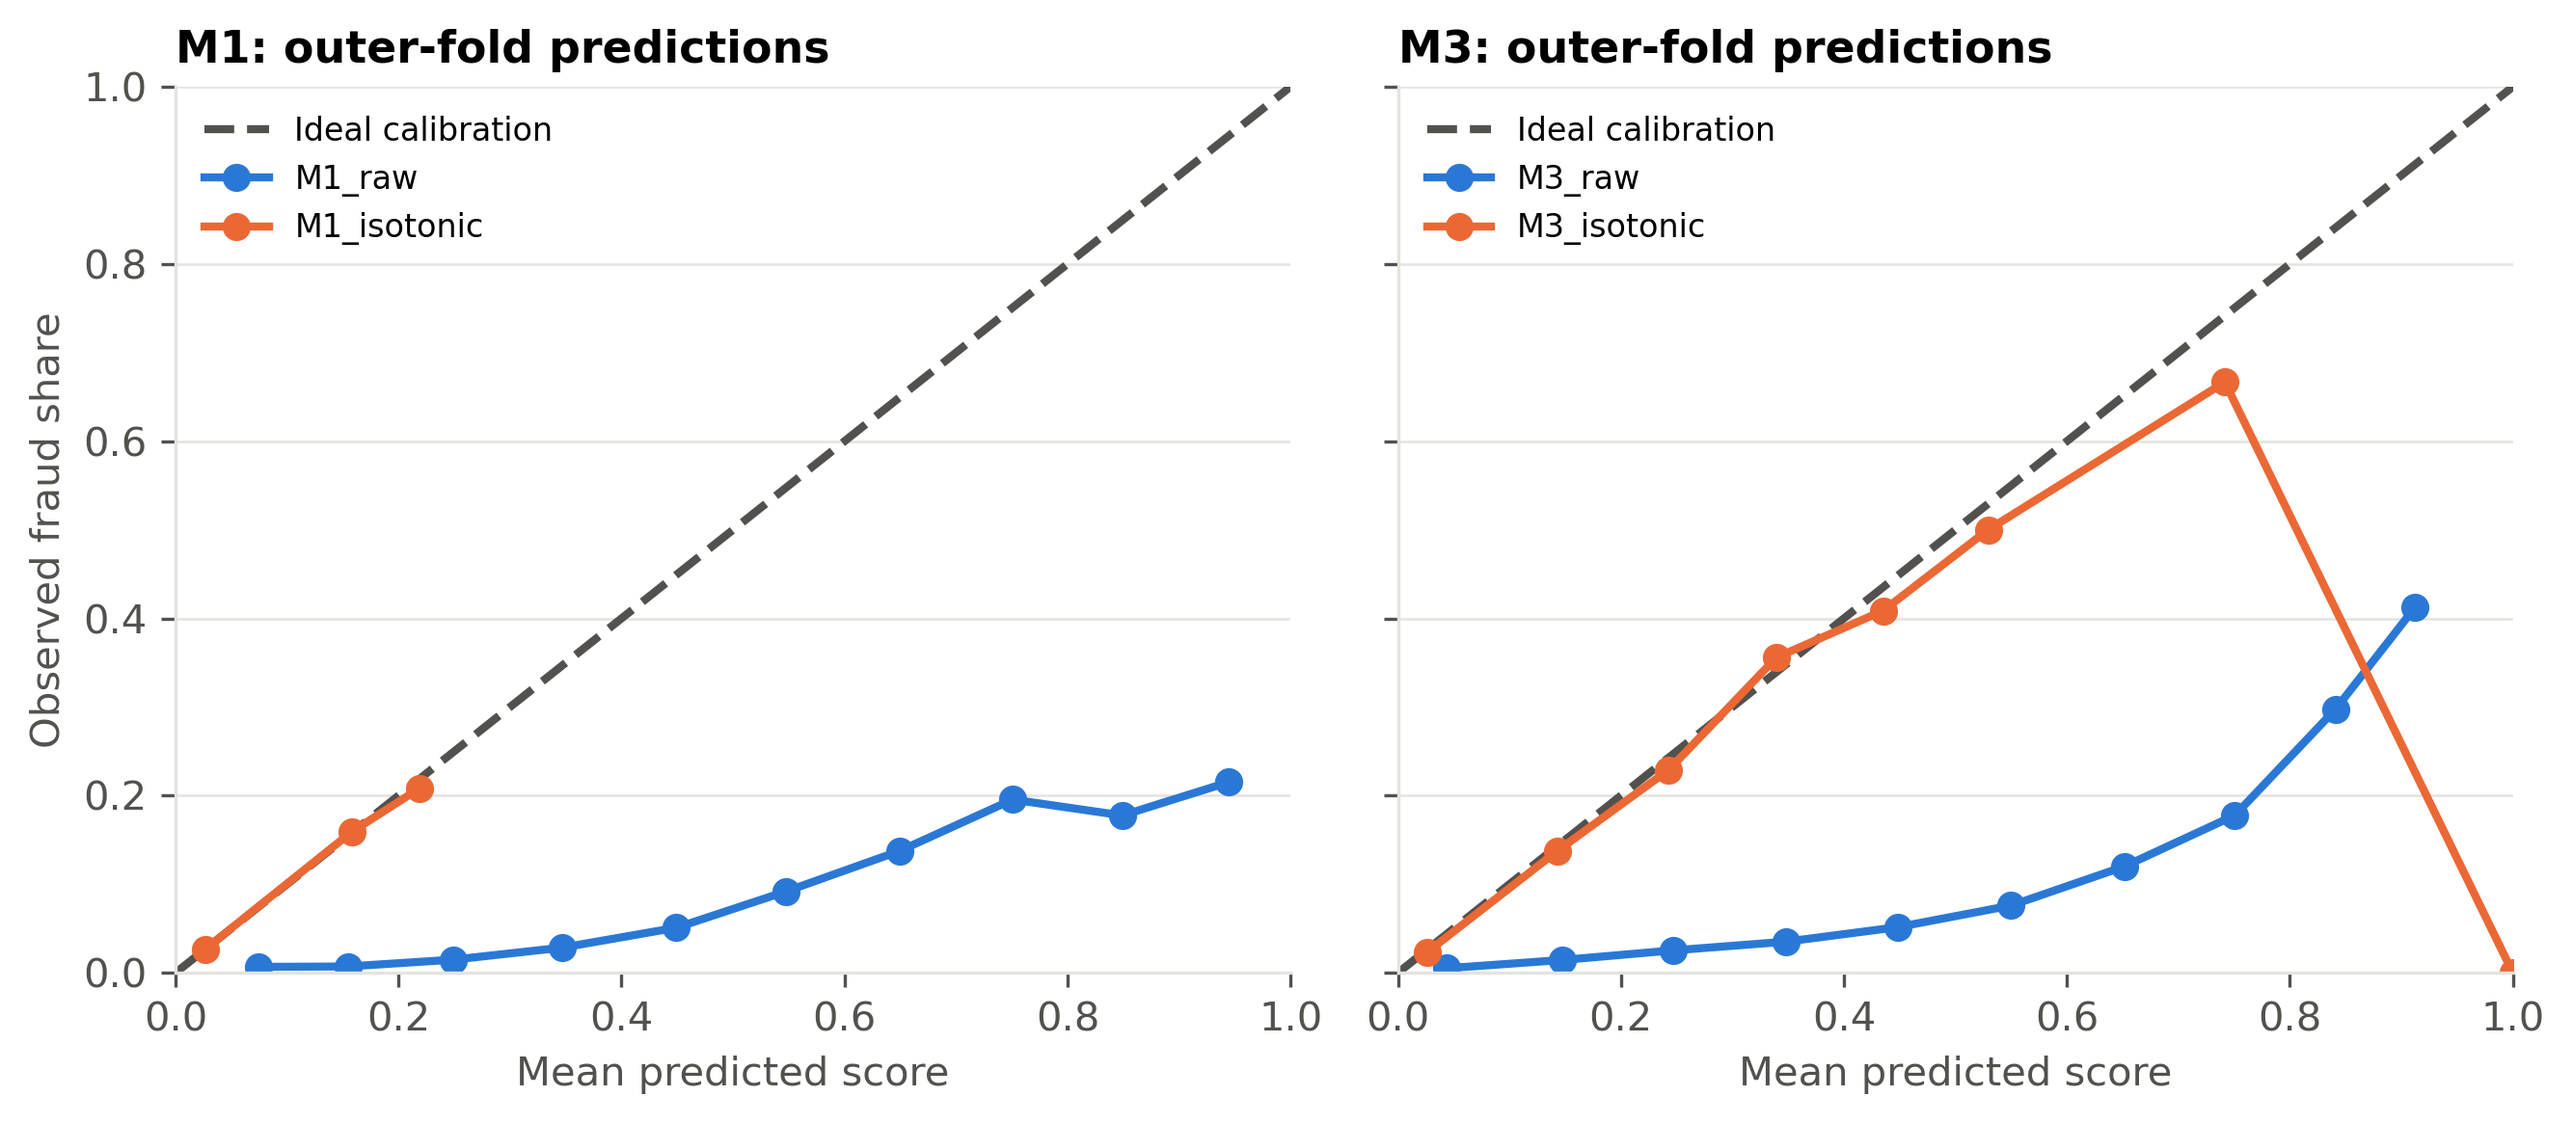
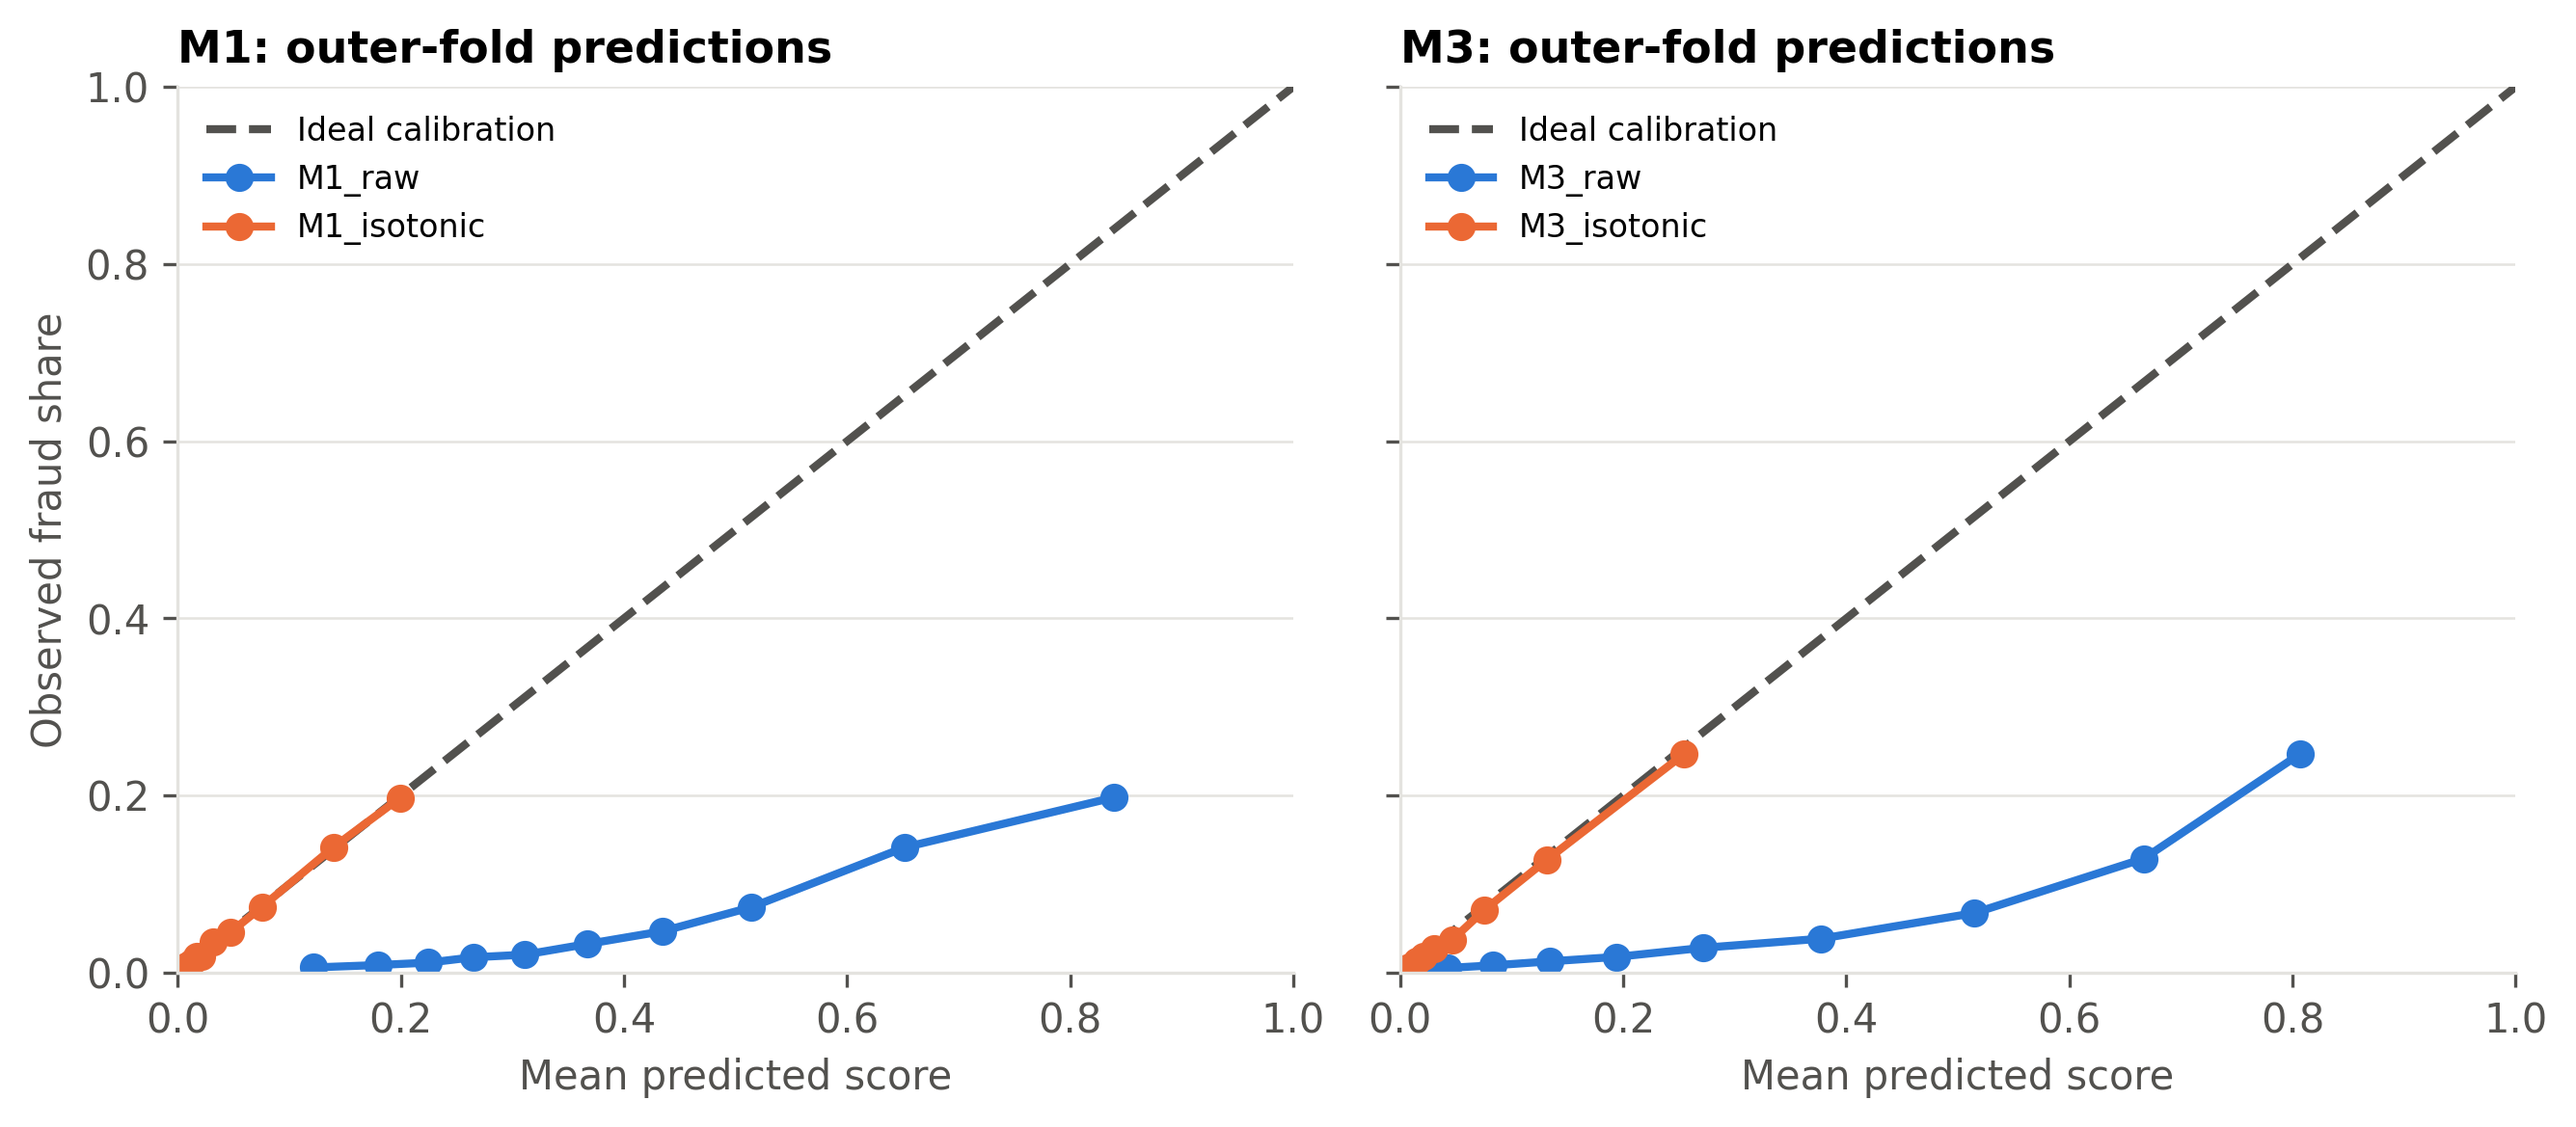
fix: keep SMOTE counts whole and plot reliability with equal-count bins
SMOTE no longer gives synthetic frauds fractional values in count and 0/1 columns, which trees could learn as a fraud marker. The imbalance comparison and SHAP export take optional tuned M3 parameters without overwriting the default-model files, and SHAP stops if the model it must match is missing. The reliability plot uses score deciles instead of equal-width bins (which left points with one to six clients) and can be redrawn from saved OOF files with --replot.

diff --git a/src/eval/explain.py b/src/eval/explain.py
@@ -1,6 +1,9 @@
 # Five signed Tree SHAP drivers per training client, explained by its held-out-fold model.
 
 
+import json
+from pathlib import Path
+
 import numpy as np
 import pandas as pd
 
@@ -39,7 +42,9 @@ def top_rows(ids, X, values):
     return pd.DataFrame(rows, columns=SHAP_COLUMNS)
 
 
-def run(ctx, n_jobs=2, batch_size=4096):
+def run(ctx, n_jobs=2, batch_size=4096, params=None, name="M3"):
+    # params: LightGBM overrides (e.g. the tuned M3); name: the published OOF model to match.
+    params_m3 = params or {}
     import shap
 
     if batch_size < 1:
@@ -47,6 +52,8 @@ def run(ctx, n_jobs=2, batch_size=4096):
     frames, score_frames = [], []
     for fold in range(5):
         params = {"fold": fold, "n_jobs": n_jobs, "shap_version": shap.__version__}
+        if params_m3:
+            params["m3_params"] = params_m3
         cache = ctx.cache("M3_shap", params)
         if (cache / "complete.json").exists():
             print(f"REUSE SHAP fold {fold + 1}/5", flush=True)
@@ -57,7 +64,7 @@ def run(ctx, n_jobs=2, batch_size=4096):
             Xtr = ctx.X.loc[train].drop(columns="client_id")
             Xva = ctx.X.loc[valid].drop(columns="client_id")
             ids = ctx.X.loc[valid, "client_id"].to_numpy()
-            model = fit_m3(Xtr, ctx.y[train], n_jobs=n_jobs)
+            model = fit_m3(Xtr, ctx.y[train], **{**params_m3, "n_jobs": n_jobs})
             explainer = shap.TreeExplainer(
                 model.estimator_, feature_perturbation="tree_path_dependent", model_output="raw"
             )
@@ -86,15 +93,16 @@ def run(ctx, n_jobs=2, batch_size=4096):
         .loc[ctx.X.client_id]
         .reset_index()
     )
-    baseline_path = ctx.results / f"oof/M3_{ctx.suffix}.parquet"
-    if baseline_path.exists():
-        baseline = pd.read_parquet(baseline_path).set_index("client_id").loc[ctx.X.client_id]
-        if baseline.fold.tolist() != reference.fold.tolist() or not np.allclose(
-            baseline.score, reference.score, rtol=1e-8, atol=1e-10
-        ):
-            raise ValueError(
-                "M3 OOF scores differ from the SHAP model. Rebuild the current LightGBM baseline first."
-            )
+    baseline_path = ctx.results / f"oof/{name}_{ctx.suffix}.parquet"
+    if not baseline_path.exists():
+        raise ValueError(f"{baseline_path} is missing: publish the {name} model before its SHAP.")
+    baseline = pd.read_parquet(baseline_path).set_index("client_id").loc[ctx.X.client_id]
+    if baseline.fold.tolist() != reference.fold.tolist() or not np.allclose(
+        baseline.score, reference.score, rtol=1e-8, atol=1e-10
+    ):
+        raise ValueError(
+            f"{name} OOF scores differ from the SHAP model. Rebuild {baseline_path} first."
+        )
     if len(top) != 5 * len(ctx.X) or set(top.client_id) != set(ctx.X.client_id):
         raise ValueError("SHAP export must contain five rows for every training client.")
     order = dict(zip(ctx.X.client_id, range(len(ctx.X))))
@@ -106,12 +114,12 @@ def run(ctx, n_jobs=2, batch_size=4096):
     )
     output = ctx.results / f"shap_top5_{ctx.suffix}.parquet"
     write_frames(
-        {output: top, ctx.results / f"oof/M3_shap_reference_{ctx.suffix}.parquet": reference}
+        {output: top, ctx.results / f"oof/{name}_shap_reference_{ctx.suffix}.parquet": reference}
     )
     write_json(
         ctx.results / f"tables/shap_metadata_{ctx.suffix}.json",
         {
-            "model": "M3",
+            "model": name,
             "feature_set": ctx.feature_set,
             "data_fingerprint": ctx.fingerprint,
             "scope": "training clients, out-of-fold explanations",
@@ -131,9 +139,12 @@ def main():
     p = parser("Export the top five out-of-fold M3 SHAP drivers per training client.")
     p.add_argument("--n-jobs", type=int, default=2)
     p.add_argument("--batch-size", type=int, default=4096)
+    p.add_argument("--params", type=Path, help="JSON of tuned M3 parameters (src.models.tune)")
     args = p.parse_args()
     try:
-        run(get_context(args), args.n_jobs, args.batch_size)
+        params = json.loads(args.params.read_text()) if args.params else None
+        name = "M3_tuned" if args.params else "M3"
+        run(get_context(args), args.n_jobs, args.batch_size, params, name)
     except (ValueError, OSError) as exc:
         p.exit(2, f"shap: {exc}\n")
 

diff --git a/src/eval/calibration.py b/src/eval/calibration.py
@@ -55,8 +55,10 @@ class IsotonicClassifier(ClassifierMixin, BaseEstimator):
 
 
 def reliability(y, scores, model, bins=10):
+    # Equal-count bins (score deciles), so every point averages about a tenth of the clients;
+    # equal-width bins leave the top bins with a handful of clients for well-calibrated scores.
     y, scores = np.asarray(y), np.asarray(scores)
-    group = np.minimum((scores * bins).astype(int), bins - 1)
+    group = pd.qcut(pd.Series(scores).rank(method="first"), bins, labels=False).to_numpy()
     rows = []
     for b in range(bins):
         mask = group == b
@@ -117,12 +119,26 @@ def run(ctx, max_iter=15000, n_jobs=2, inner_folds=3):
         publish(ctx, oof, row, name)
         write_frames({ctx.results / f"oof/{kind}_calibration_raw_{ctx.suffix}.parquet": raw})
     table, bin_table = pd.DataFrame(comparisons), pd.concat(bins, ignore_index=True)
-    write_frames(
-        {
-            ctx.results / f"tables/calibration_{ctx.suffix}.csv": table,
-            ctx.results / f"tables/reliability_{ctx.suffix}.csv": bin_table,
-        }
-    )
+    write_frames({ctx.results / f"tables/calibration_{ctx.suffix}.csv": table})
+    plot_reliability(ctx, bin_table)
+    print(table[["model", "brier_mean", "brier_std"]].to_string(index=False))
+    return table, bin_table
+
+
+def replot(ctx):
+    # Rebuild the reliability table and figure from the published OOF files, without refitting.
+    order = ctx.X.client_id
+    bins = []
+    for kind in ("M1", "M3"):
+        for label, file in ((f"{kind}_raw", "calibration_raw"), (f"{kind}_isotonic", "isotonic")):
+            oof = pd.read_parquet(ctx.results / f"oof/{kind}_{file}_{ctx.suffix}.parquet")
+            scores = oof.set_index("client_id").loc[order, "score"]
+            bins.append(reliability(ctx.y, scores, label))
+    plot_reliability(ctx, pd.concat(bins, ignore_index=True))
+
+
+def plot_reliability(ctx, bin_table):
+    write_frames({ctx.results / f"tables/reliability_{ctx.suffix}.csv": bin_table})
     style.apply()
     fig, axes = plt.subplots(1, 2, figsize=(9, 4), sharex=True, sharey=True)
     for kind, ax in zip(("M1", "M3"), axes):
@@ -147,8 +163,6 @@ def run(ctx, max_iter=15000, n_jobs=2, inner_folds=3):
     fig.savefig(temp, format="png")
     plt.close(fig)
     temp.replace(output)
-    print(table[["model", "brier_mean", "brier_std"]].to_string(index=False))
-    return table, bin_table
 
 
 def main():
@@ -156,9 +170,15 @@ def main():
     p.add_argument("--max-iter", type=int, default=15000)
     p.add_argument("--n-jobs", type=int, default=2)
     p.add_argument("--inner-folds", type=int, default=3)
+    p.add_argument(
+        "--replot", action="store_true", help="redraw the reliability plot from saved OOF files"
+    )
     args = p.parse_args()
     try:
-        run(get_context(args), args.max_iter, args.n_jobs, args.inner_folds)
+        if args.replot:
+            replot(get_context(args))
+        else:
+            run(get_context(args), args.max_iter, args.n_jobs, args.inner_folds)
     except (ValueError, OSError, ConvergenceWarning) as exc:
         p.exit(2, f"calibrate: {exc}\n")
 

diff --git a/src/models/imbalance.py b/src/models/imbalance.py
@@ -1,6 +1,8 @@
 # Compare imbalance handling while holding LightGBM parameters and saved folds fixed.
 
+import json
 from functools import partial
+from pathlib import Path
 
 import pandas as pd
 
@@ -10,17 +12,20 @@ from src.models.sampling import STRATEGIES
 from src.models.trees import model_fn
 
 
-def run(ctx, n_jobs=2):
+def run(ctx, n_jobs=2, base=None, prefix="M3"):
+    # base: LightGBM overrides held fixed across strategies (e.g. the tuned M3 parameters).
+    # The default M3 ablation keeps its file names; a tuned run writes imbalance_tuned_*.
+    table = "imbalance" if prefix == "M3" else "imbalance_tuned"
     completed = []
     for strategy in STRATEGIES:
-        name = f"M3_{strategy}"
-        params = {"imbalance": strategy, "n_jobs": n_jobs}
+        name = f"{prefix}_{strategy}"
+        params = {**(base or {}), "imbalance": strategy, "n_jobs": n_jobs}
         oof, row, _ = evaluate(ctx, partial(model_fn, **params), name, params)
         publish(ctx, oof, row, name)
         completed.append(row)
-        write_frames({ctx.results / f"tables/imbalance_{ctx.suffix}.csv": pd.DataFrame(completed)})
+        write_frames({ctx.results / f"tables/{table}_{ctx.suffix}.csv": pd.DataFrame(completed)})
     winner = max(completed, key=lambda row: row["pr_auc_mean"])
-    write_json(ctx.results / f"tables/imbalance_selection_{ctx.suffix}.json", winner)
+    write_json(ctx.results / f"tables/{table}_selection_{ctx.suffix}.json", winner)
     print(f"Best imbalance strategy by CV PR-AUC: {winner['imbalance']}", flush=True)
     return pd.DataFrame(completed)
 
@@ -28,9 +33,11 @@ def run(ctx, n_jobs=2):
 def main():
     p = parser("M3 imbalance ablations on saved folds.")
     p.add_argument("--n-jobs", type=int, default=2)
+    p.add_argument("--params", type=Path, help="JSON of tuned M3 parameters (src.models.tune)")
     args = p.parse_args()
     try:
-        run(get_context(args), args.n_jobs)
+        base = json.loads(args.params.read_text()) if args.params else None
+        run(get_context(args), args.n_jobs, base, "M3_tuned" if args.params else "M3")
     except (ValueError, OSError) as exc:
         p.exit(2, f"imbalance: {exc}\n")
 

diff --git a/src/models/sampling.py b/src/models/sampling.py
@@ -56,6 +56,10 @@ def balance_training(X, y, strategy, seed):
     for c in nums:
         if X[c].isna().all():
             extra[c] = np.nan
+        elif np.array_equal(X[c].dropna(), np.round(X[c].dropna())):
+            # Integer-valued columns (counts, 0/1 flags) stay whole numbers; otherwise only
+            # synthetic frauds would have values such as has_gaz = 0.4, which trees learn.
+            extra[c] = np.round(extra[c])
     for c in cats:
         # The sampler's missing marker becomes missing again in the native model input.
         extra[c] = pd.Categorical(extra[c], categories=X[c].cat.categories)
